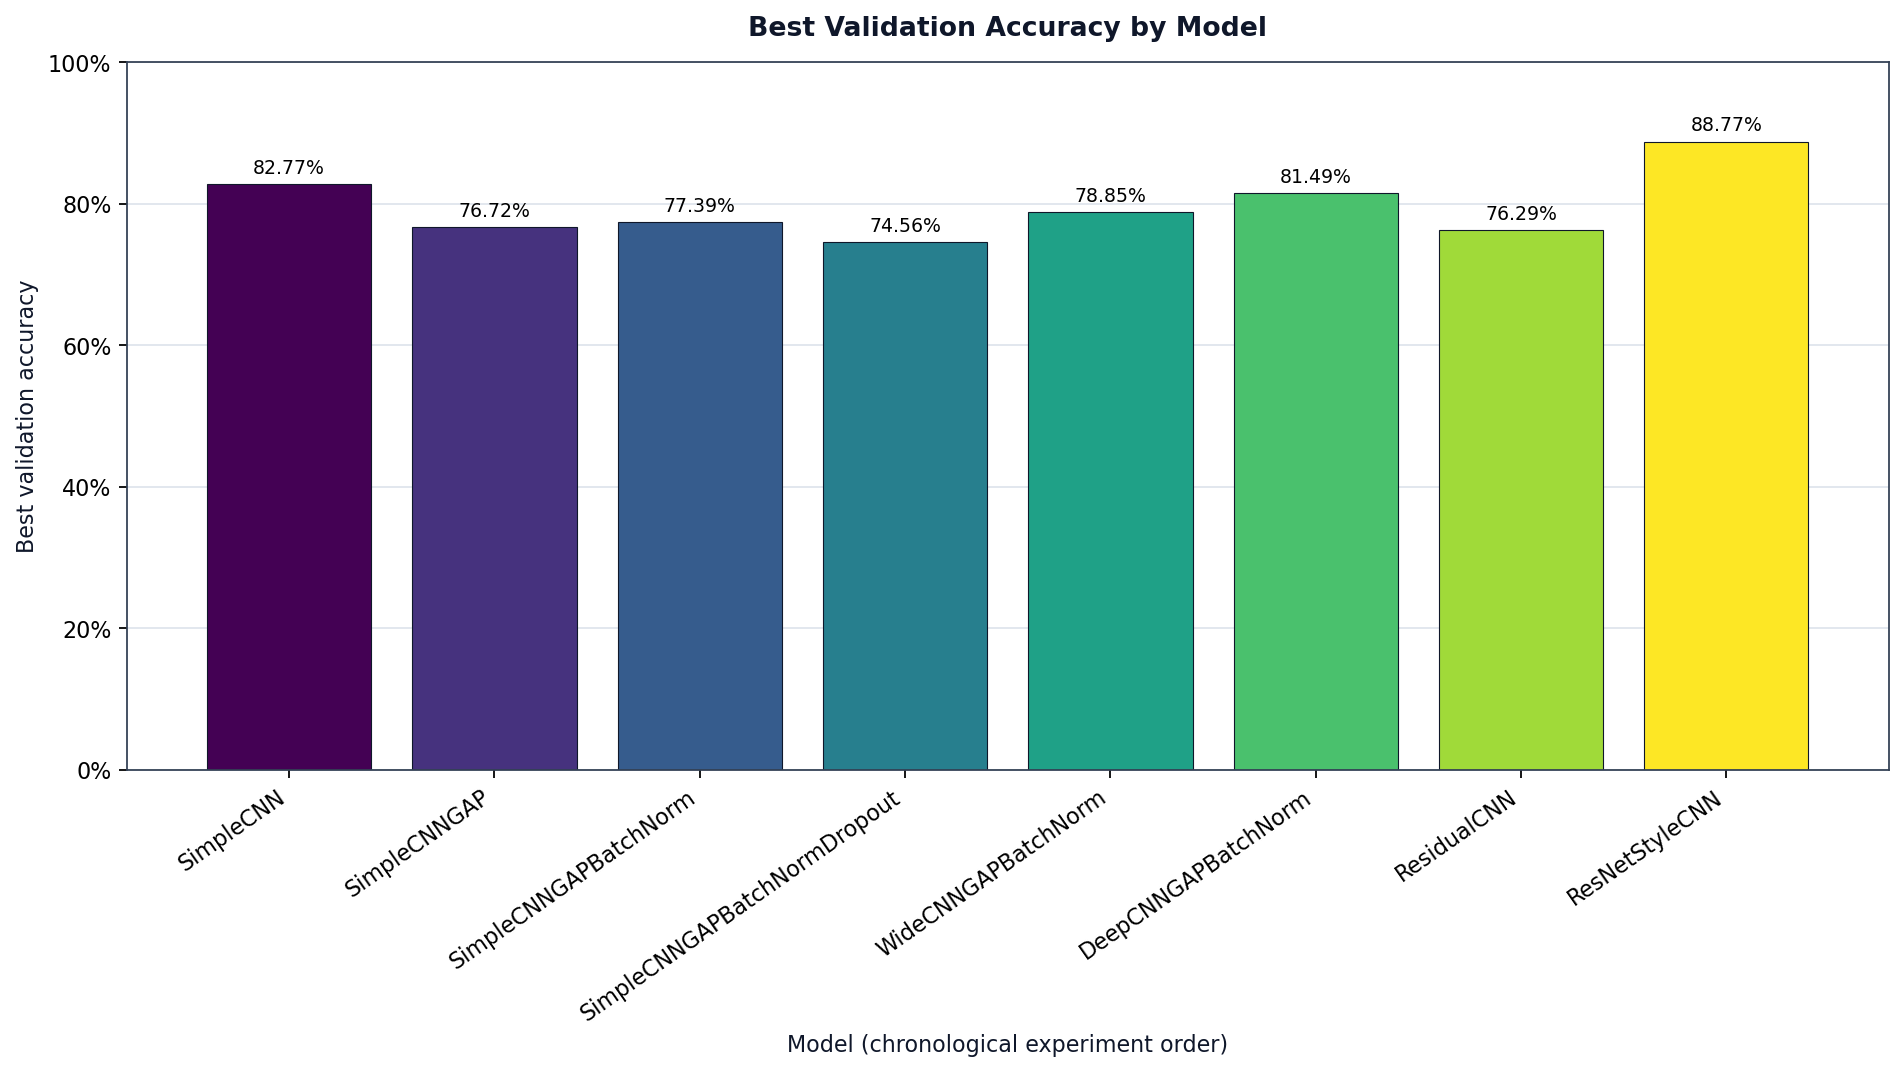
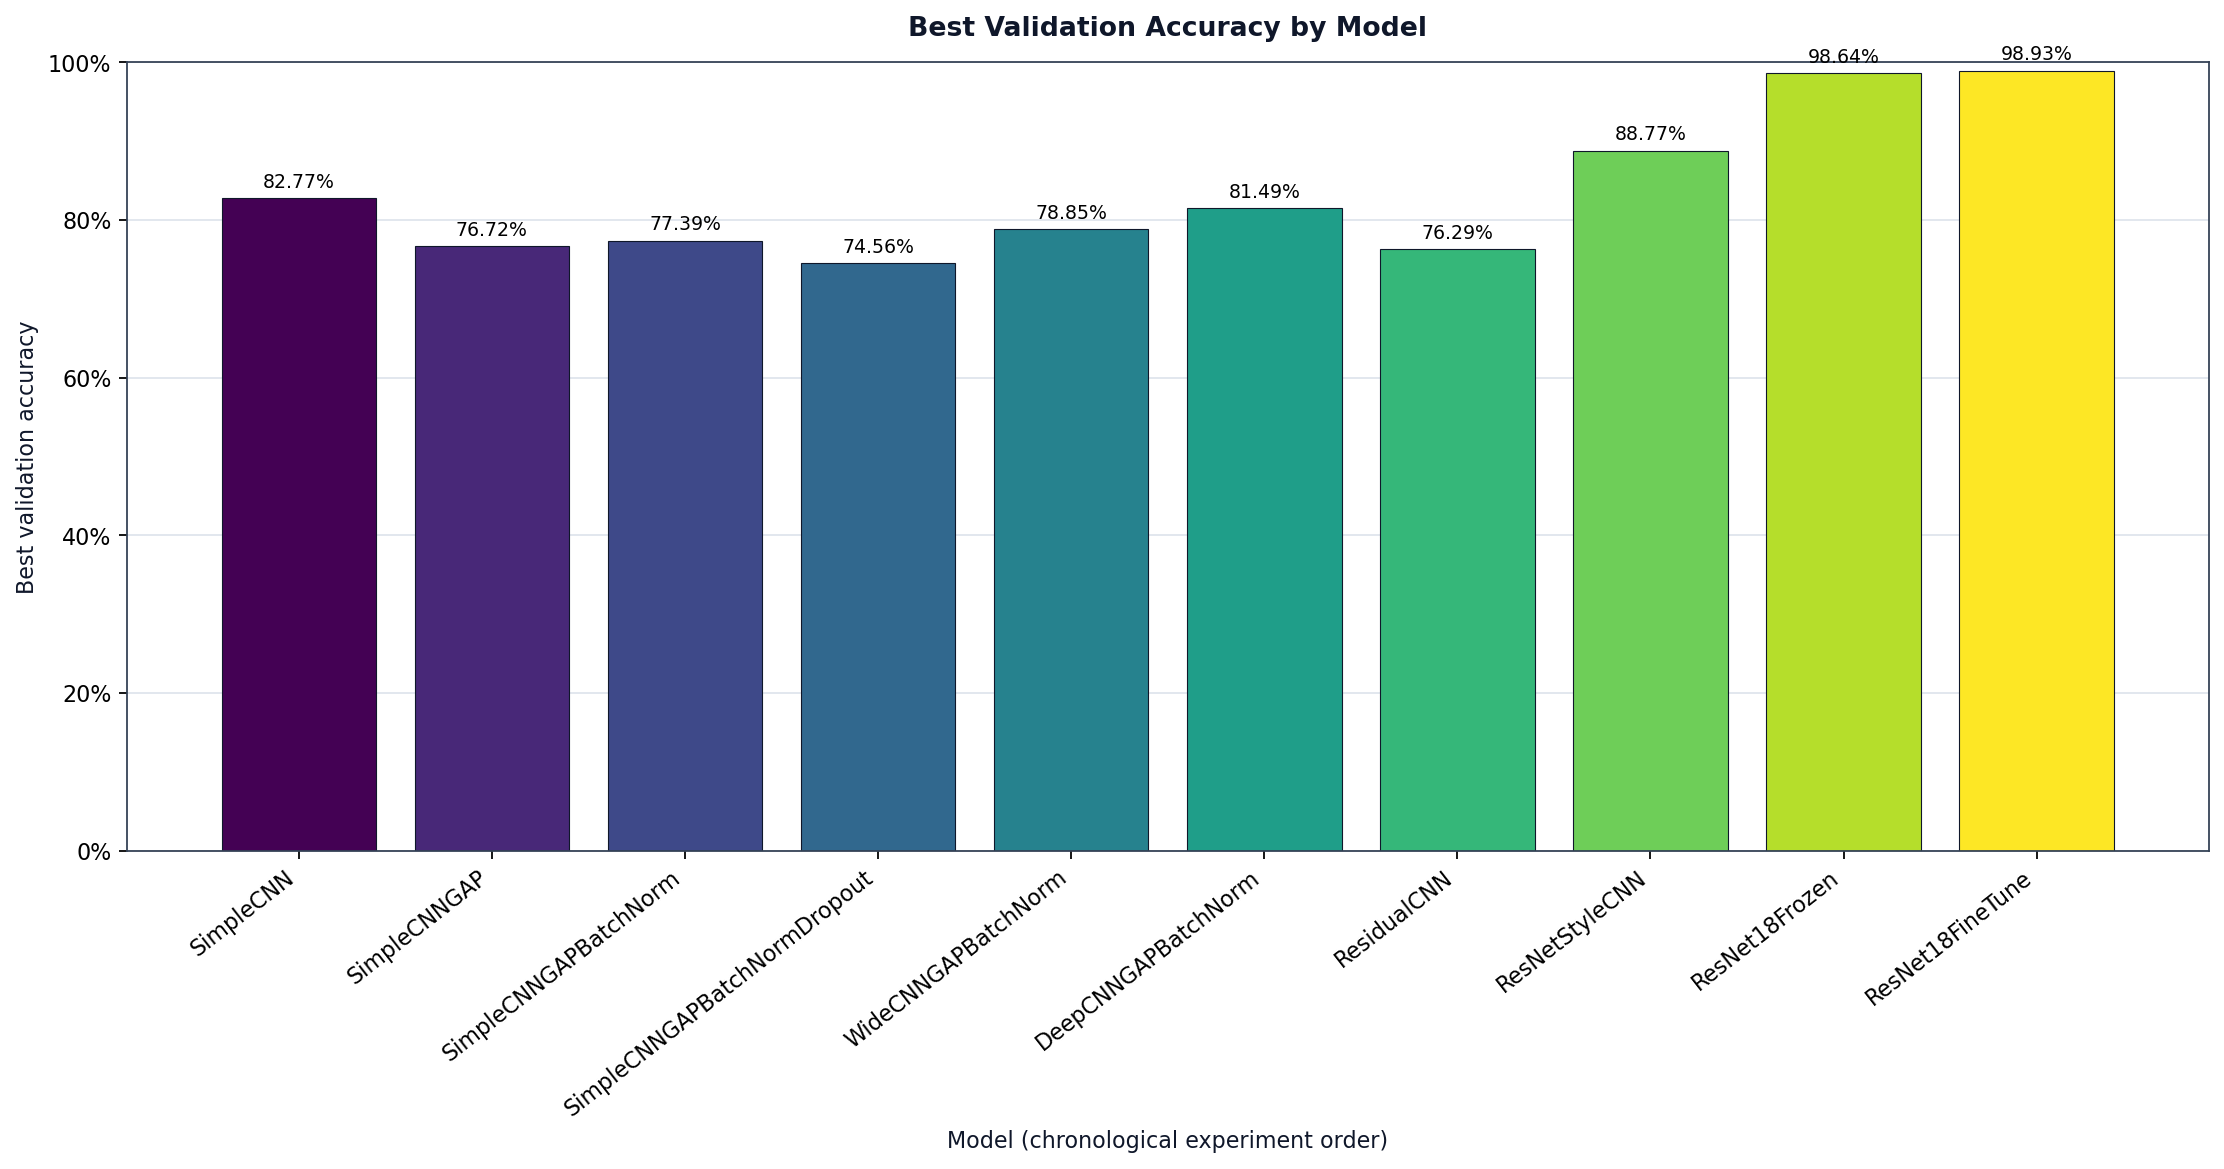
Update experiments with ResNet18 transfer learning results

diff --git a/scripts/plot_experiment_results.py b/scripts/plot_experiment_results.py
@@ -77,7 +77,7 @@ def configure_plot_style() -> None:
 
 def plot_accuracy_vs_parameters(results: list[ExperimentResult]) -> None:
     """Create a labeled accuracy-versus-parameter scatter plot."""
-    figure, axis = plt.subplots(figsize=(11, 6.5))
+    figure, axis = plt.subplots(figsize=(12, 7))
     parameters = [result.parameters for result in results]
     accuracies = [result.best_val_accuracy for result in results]
     colors = plt.cm.viridis([index / max(len(results) - 1, 1) for index in range(len(results))])
@@ -92,23 +92,25 @@ def plot_accuracy_vs_parameters(results: list[ExperimentResult]) -> None:
         zorder=3,
     )
 
-    vertical_offsets = (10, -16, 11, -18, 10, -15, 10, 10)
+    vertical_offsets = (10, -16, 11, -18, 10, -15, 10, 10, 12, -14)
+    maximum_parameters = max(parameters)
     for index, result in enumerate(results):
+        is_rightmost = result.parameters == maximum_parameters
         axis.annotate(
             result.model,
             (result.parameters, result.best_val_accuracy),
-            xytext=(7, vertical_offsets[index % len(vertical_offsets)]),
+            xytext=(-7 if is_rightmost else 7, vertical_offsets[index]),
             textcoords="offset points",
             fontsize=8.5,
-            ha="left",
+            ha="right" if is_rightmost else "left",
             va="center",
         )
 
     axis.set_xscale("log")
     axis.yaxis.set_major_formatter(PercentFormatter(xmax=1.0, decimals=0))
     axis.set_ylim(min(accuracies) - 0.035, max(accuracies) + 0.035)
-    axis.set_title("Validation Accuracy vs. Trainable Parameters", pad=12, weight="bold")
-    axis.set_xlabel("Trainable parameters (log scale)")
+    axis.set_title("Validation Accuracy vs. Total Parameters", pad=12, weight="bold")
+    axis.set_xlabel("Total parameters (log scale)")
     axis.set_ylabel("Best validation accuracy")
     axis.grid(True, which="major", color="#cbd5e1", linewidth=0.7, alpha=0.7)
     axis.grid(True, which="minor", axis="x", color="#e2e8f0", linewidth=0.5, alpha=0.5)
@@ -119,7 +121,7 @@ def plot_accuracy_vs_parameters(results: list[ExperimentResult]) -> None:
 
 def plot_accuracy_by_model(results: list[ExperimentResult]) -> None:
     """Create a chronological validation-accuracy bar chart."""
-    figure, axis = plt.subplots(figsize=(12, 6.8))
+    figure, axis = plt.subplots(figsize=(14, 7.4))
     models = [result.model for result in results]
     accuracies = [result.best_val_accuracy for result in results]
     colors = plt.cm.viridis([index / max(len(results) - 1, 1) for index in range(len(results))])
@@ -139,7 +141,7 @@ def plot_accuracy_by_model(results: list[ExperimentResult]) -> None:
     axis.set_ylabel("Best validation accuracy")
     axis.grid(True, axis="y", color="#cbd5e1", linewidth=0.7, alpha=0.7)
     axis.set_axisbelow(True)
-    axis.tick_params(axis="x", labelrotation=35)
+    axis.tick_params(axis="x", labelrotation=38)
     for label in axis.get_xticklabels():
         label.set_horizontalalignment("right")
     figure.tight_layout()

diff --git a/README.md b/README.md
@@ -4,7 +4,7 @@ A PyTorch computer-vision project for reproducible binary classification experim
 
 ## Experiments
 
-All listed models were trained from scratch with the same training and validation split. Each run used seed 42, batch size 32, Adam with a learning rate of 0.001, and 10 training epochs. The test split remained untouched during model development and validation.
+All experiments used the same training and validation split, seed 42, batch size 32, Adam, and 10 training epochs. The scratch models and frozen ResNet18 used a learning rate of 0.001; full ResNet18 fine-tuning used 0.0001. The test split remained untouched during model development and validation.
 
 | Model | Parameters | Best Epoch | Best Validation Accuracy | Best Validation Loss | Runtime (minutes) |
 |---|---:|---:|---:|---:|---:|
@@ -16,9 +16,15 @@ All listed models were trained from scratch with the same training and validatio
 | DeepCNNGAPBatchNorm | 422,530 | 8 | 81.49% | 0.410582 | 21.63 |
 | ResidualCNN | 1,226,914 | 10 | 76.29% | 0.494965 | 52.59 |
 | ResNetStyleCNN | 4,906,818 | 10 | 88.77% | 0.267854 | 20.33 |
+| ResNet18Frozen | 11,177,538 | 10 | 98.64% | 0.041052 | 16.46 |
+| ResNet18FineTune | 11,177,538 | 7 | 98.93% | 0.031699 | 22.84 |
 
 ![Validation accuracy versus trainable parameters](reports/figures/validation_accuracy_vs_parameters.png)
 
 ![Validation accuracy by model](reports/figures/validation_accuracy_by_model.png)
 
-Replacing the original dense classifier with global average pooling greatly reduced parameter count but also reduced validation accuracy in these runs. Batch normalization slightly improved the compact GAP model, while classifier dropout reduced its validation result. Widening and deepening the convolutional backbone recovered performance. The first residual model retained high spatial resolution and had the longest runtime. The ResNet-style model introduced early downsampling, ran substantially faster than that first residual model, and produced the strongest validation result among these experiments. These observations describe this dataset split and training configuration rather than universal model behavior.
+### Transfer Learning
+
+Both transfer-learning experiments used ResNet18 with pretrained ImageNet weights and a new two-class classifier. Frozen-backbone training optimized only that classifier: the model had 11,177,538 total parameters, 1,026 trainable parameters, and reached 98.64% best validation accuracy. Full fine-tuning made all 11,177,538 parameters trainable, used a learning rate of 0.0001, and reached 98.93% best validation accuracy. Fine-tuning improved validation accuracy by approximately 0.29 percentage points in this experiment, while requiring more optimization time and producing a substantially larger Adam checkpoint.
+
+Among the scratch models, replacing the original dense classifier with global average pooling greatly reduced parameter count but also reduced validation accuracy in these runs. Batch normalization slightly improved the compact GAP model, while classifier dropout reduced its validation result. Widening and deepening the convolutional backbone recovered performance. The first residual model retained high spatial resolution and had the longest runtime. Early downsampling made ResNetStyleCNN faster than that first residual model and produced the strongest scratch-model validation result. The pretrained ResNet18 experiments produced the strongest validation results overall. These measurements describe this specific split, seed, augmentation, and training configuration; they do not establish that transfer learning is universally superior. The test split has not been evaluated.
